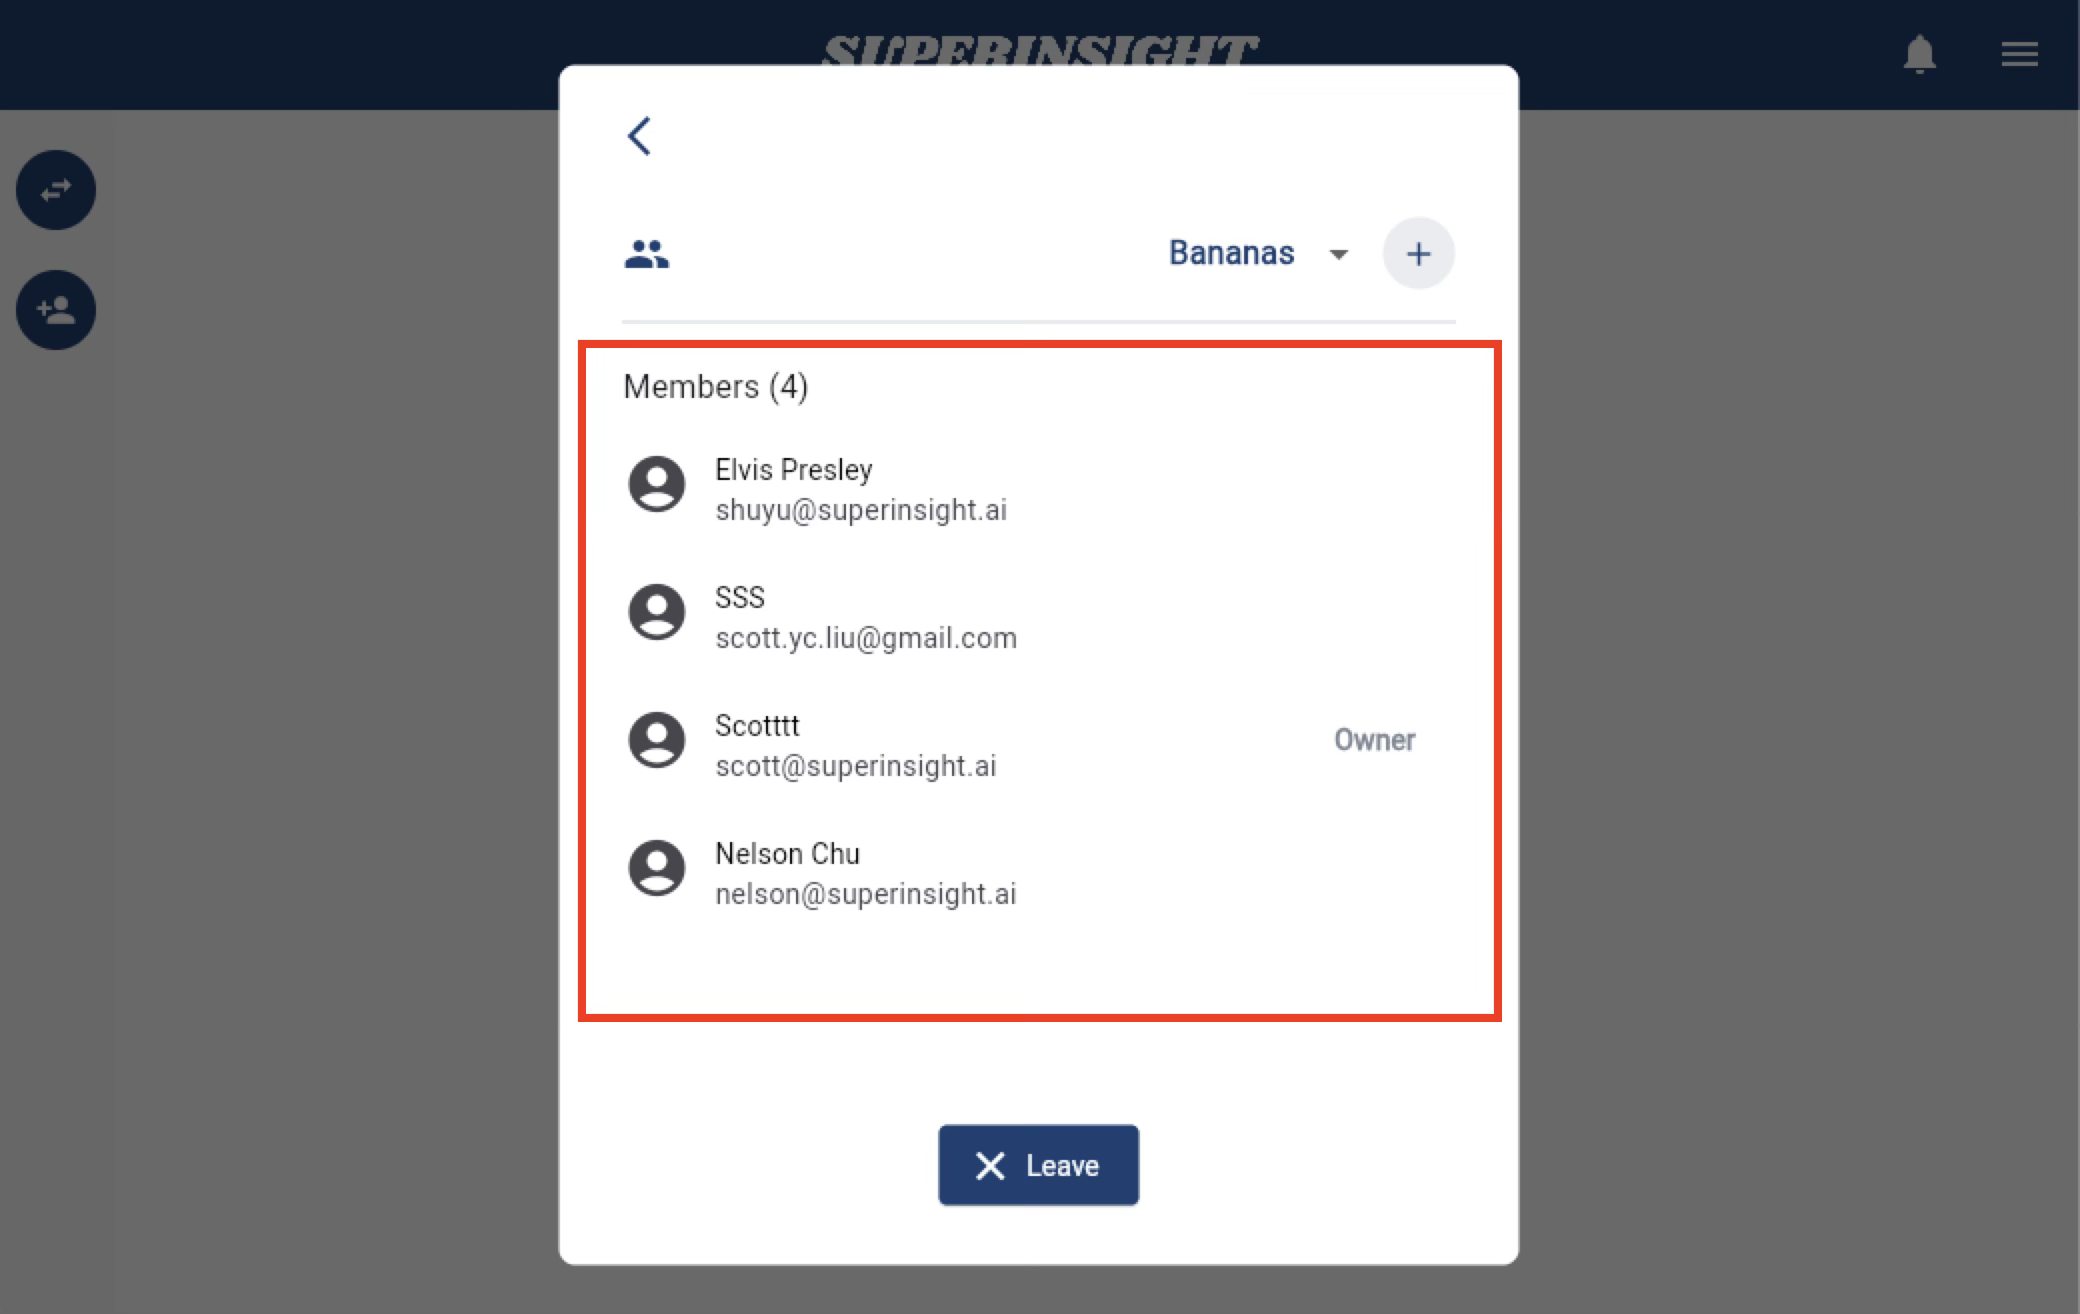
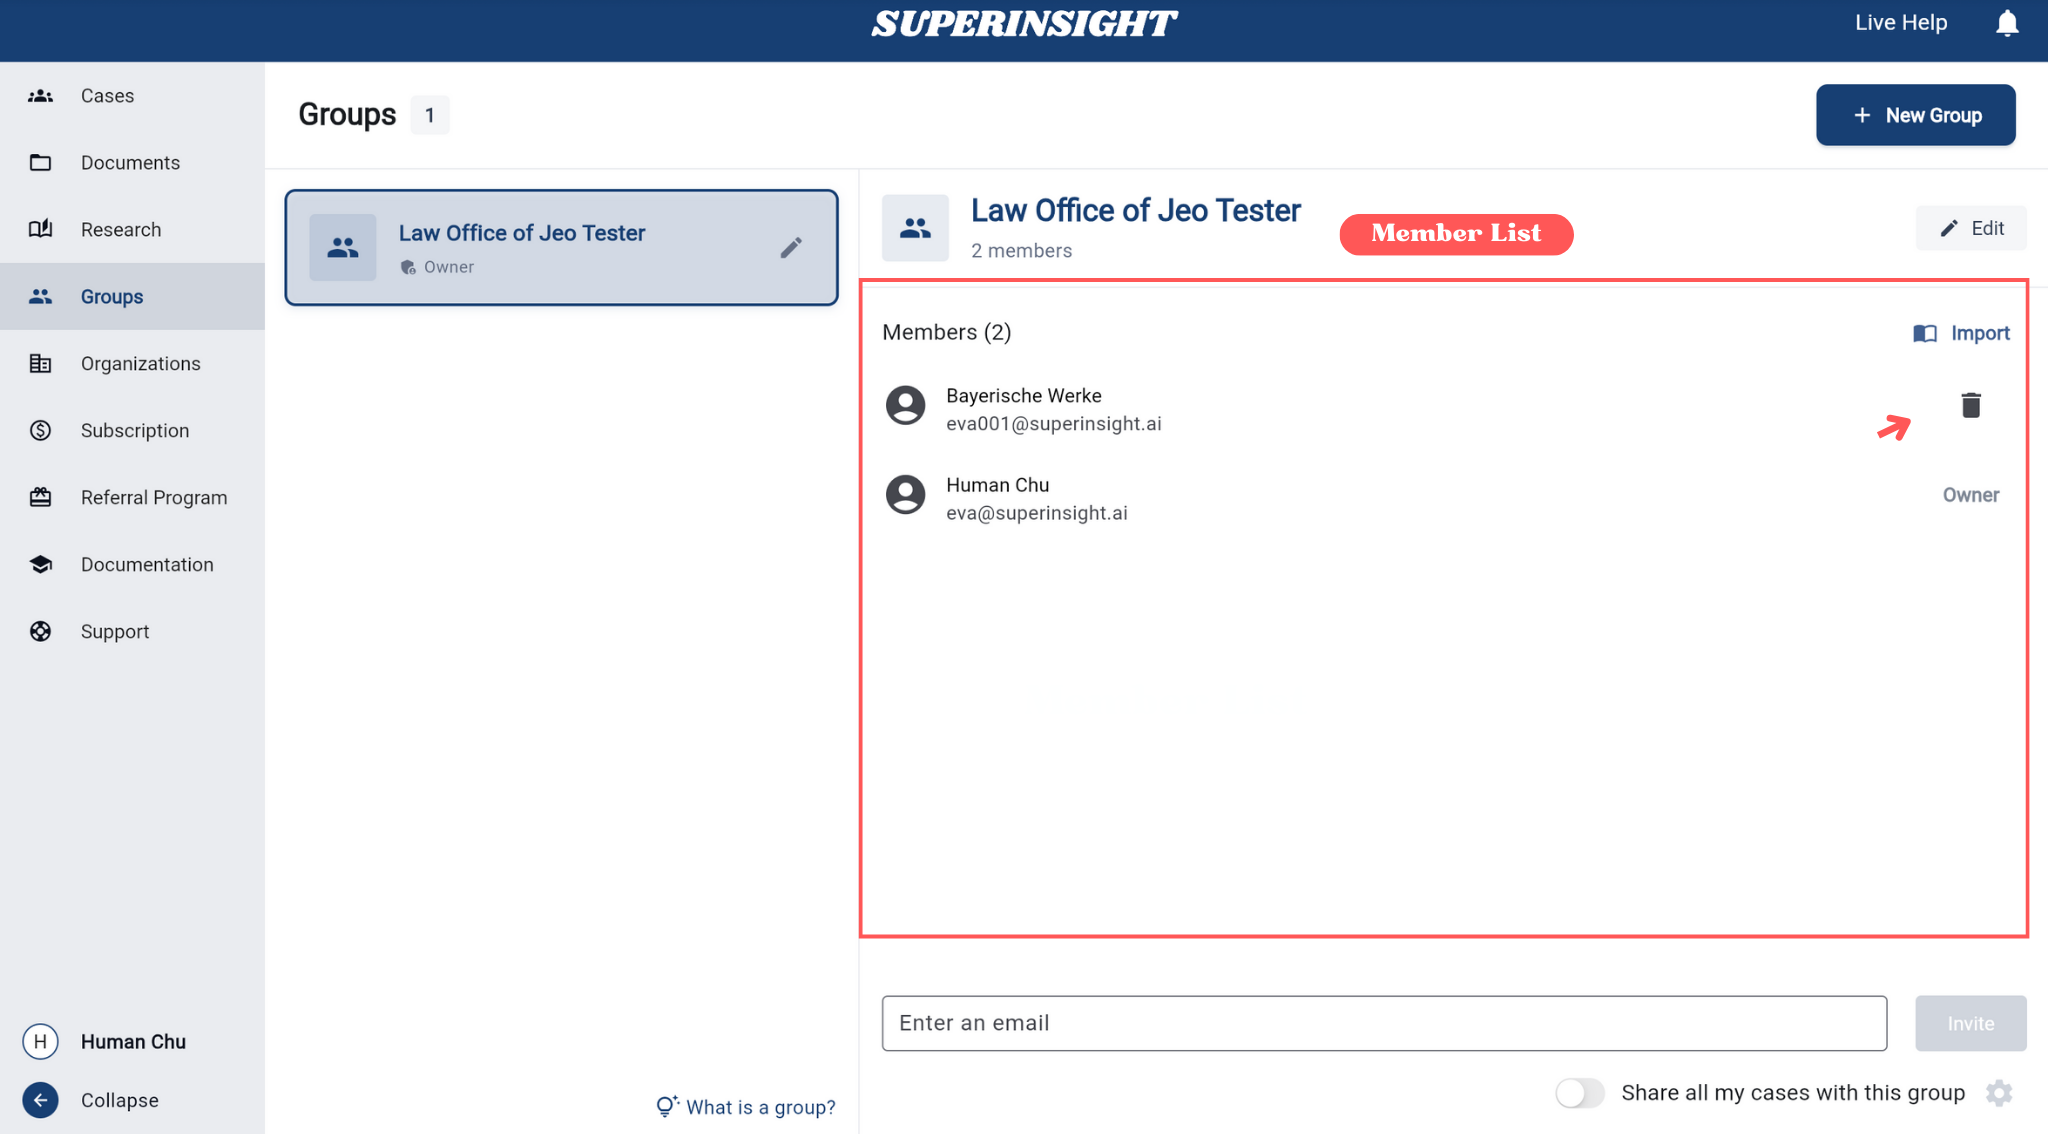
research and group

diff --git a/docs/guide/groups.md b/docs/guide/groups.md
@@ -1,48 +1,66 @@
 # Manage Groups
 
-The Groups feature allows you to create multiple groups based on your work scenarios and needs, enabling better organization and management of team members. You can create groups to collaborate on cases, share files, and set different access permissions for different groups.
+Groups enable efficient **team organization and management** for different work scenarios. **Create groups to collaborate on cases, share files, and set different access permissions** based on your specific needs.
 
 ## Create a New Group
 
-To create a new group, follow these steps:
+Navigate to **Groups** from the left sidebar to access the group management workspace.
 
-=== "Access Settings"
-    Click the menu icon in the upper-right corner, then select **Settings**.
+**Steps to create a new group:**
 
-    ![Menu](../assets/images/tutorial/menu-1.png)
+1. Click **Groups** in the left sidebar to open the Groups section
+2. Click the **New Group** button in the top-right corner, or
+3. Click **Create Your First Group** button in the center (if no groups exist yet)
+4. Enter the group name and click **Create** to complete setup
 
-=== "Manage Groups"
-    Click the "**>**" button next to **Manage Group**.
-
-    ![Manage Group](../assets/images/tutorial/manage-group.png)
-
-=== "Create Group"
-    Click the **Create Group** button, enter the group name, then click **Create**.
-
-    ![Create Group](../assets/images/tutorial/create-folder.png)
+![Groups Navigation](../assets/images/tutorial/group-navigator.png)
 
 ## Invite Members to a Group
 
-After creating a group, you can invite members through the following methods:
+After creating a group, invite members using these methods:
 
 === "Invite New Member"
     Click the **Invite New Member** button and enter the member's email address to send an invitation.
 
-    ![Invite New Member](../assets/images/tutorial/group-invite.png)
+    ![Invite New Member](../assets/images/tutorial/group-invite-member.png)
 
 === "Import from Organization"
-    You can also import members to your group from your organization. Members will receive an invitation and must accept it before joining the group.
+    **Import existing organization members** to your group. Invited members must accept before joining.
 
-    ![Import New Member](../assets/images/tutorial/group-import.png)
+    ![Import New Member](../assets/images/tutorial/group-import-organization1.png)
+
+    ![Import Confirmation](../assets/images/tutorial/group-import-organization2.png)
 
 === "Member List"
-    View all members in the group. Group owners can remove any member.
+    View all members in the group. **Group owners can remove any member**.
 
-    ![Group Member List](../assets/images/tutorial/group-owner-list.png)
+    ![Group Member List](../assets/images/tutorial/group-member-list.png)
+
+## Share My Cases
+
+After creating a group and adding members, you can share your cases with the entire group for collaborative work.
+
+=== "Share All Cases"
+    Enable the **"Share all my cases with this group"** toggle at the bottom of the group page to automatically share all current and future cases with group members. The access control dialog appears automatically after enabling the toggle, or you can **click the gear icon** on the right to access it anytime.
+
+    ![Share All Cases](../assets/images/tutorial/group-share-cases.png)
+
+=== "Access Control"
+    Set appropriate **access permissions** for group members to control what they can view and edit in shared cases.
+
+    In the Access Control dialog, you can assign different access levels to individual parts of the case including **Documents**, **Reports**, and **Contact**.
+
+    For each part, choose one of the following roles:
+
+    - **Read** – View-only access. The user can see the content but cannot make any changes.
+    - **Write** – Full access to view, edit, and update content.
+    - **None** – The user has no access to this section.
+
+    ![Control Access](../assets/images/tutorial/group-access-control.png)
 
 ## Example Use Cases for Groups
 
-The Groups feature is suitable for the following scenarios:
+Groups are ideal for these scenarios:
 
 ### 1. Case Collaboration
 - Create dedicated groups for specific cases
@@ -65,6 +83,7 @@ The Groups feature is suitable for the following scenarios:
 - Easily disband groups after project completion
 - Flexible management of project-related access permissions
 
+<!--
 ## Group Permission Management
 
 Group owners can:
@@ -74,14 +93,10 @@ Group owners can:
 
     ![Edit Group](../assets/images/tutorial/group-edit.png)
 
-=== "Share with Group"
-    Share all your cases with group members and set access permissions for members.
-
-    ![Share with Group](../assets/images/tutorial/group-permission.png)
-
 === "Leave Group"
     If you are a group member, click the **Leave** button to leave the group.
 
     ![Leave Group](../assets/images/tutorial/group-leave.png)
 
-Through effective group management, you can improve team collaboration efficiency, ensure information security, and provide flexible organizational structures for different work scenarios. 
+Effective group management improves collaboration efficiency, ensures information security, and provides flexible organizational structures for various work scenarios.
+--> 

diff --git a/docs/guide/research.md b/docs/guide/research.md
@@ -31,7 +31,7 @@ To use the Research feature effectively, follow these key steps:
 Navigate to the **Research** section from the left sidebar. The Research tab provides a dedicated workspace for document querying and analysis.
 
 === "Research Section"
-    ![Research Section](../assets/images/tutorial/Research-page.png)
+    ![Research Section](../assets/images/tutorial/research-section.png)
 
 ### Selecting Source Files
 
@@ -43,12 +43,12 @@ Before you can start asking questions, you need to select one or more source fil
 === "Source Files Panel"
     Use the right-hand **Source Files** panel to select documents from either **My Documents** or **Case Documents**.
 
-    ![Source Files Panel](../assets/images/tutorial/Research-sourcefile.png)
+    ![Source Files Panel](../assets/images/tutorial/research-filesource.png)
 
 === "File Selection"
     Click on files to select them. **At least one file must be selected** to enable the Research feature. You can select multiple files for comprehensive analysis across multiple documents.
 
-    ![File Selection](../assets/images/tutorial/Research-fileselection.png)
+    ![File Selection](../assets/images/tutorial/research-selectionfile.png)
 
 ### Starting a Conversation
 
@@ -75,7 +75,7 @@ Before you can start asking questions, you need to select one or more source fil
 - **Comparisons**: "Compare the recommendations between @file.name1 and @file.name2"
 
 === "Send Question"
-    ![Send Question](../assets/images/tutorial/Research-ask.png)
+    ![Send Question](../assets/images/tutorial/research-ask.png)
 
 ### Getting Responses
 
